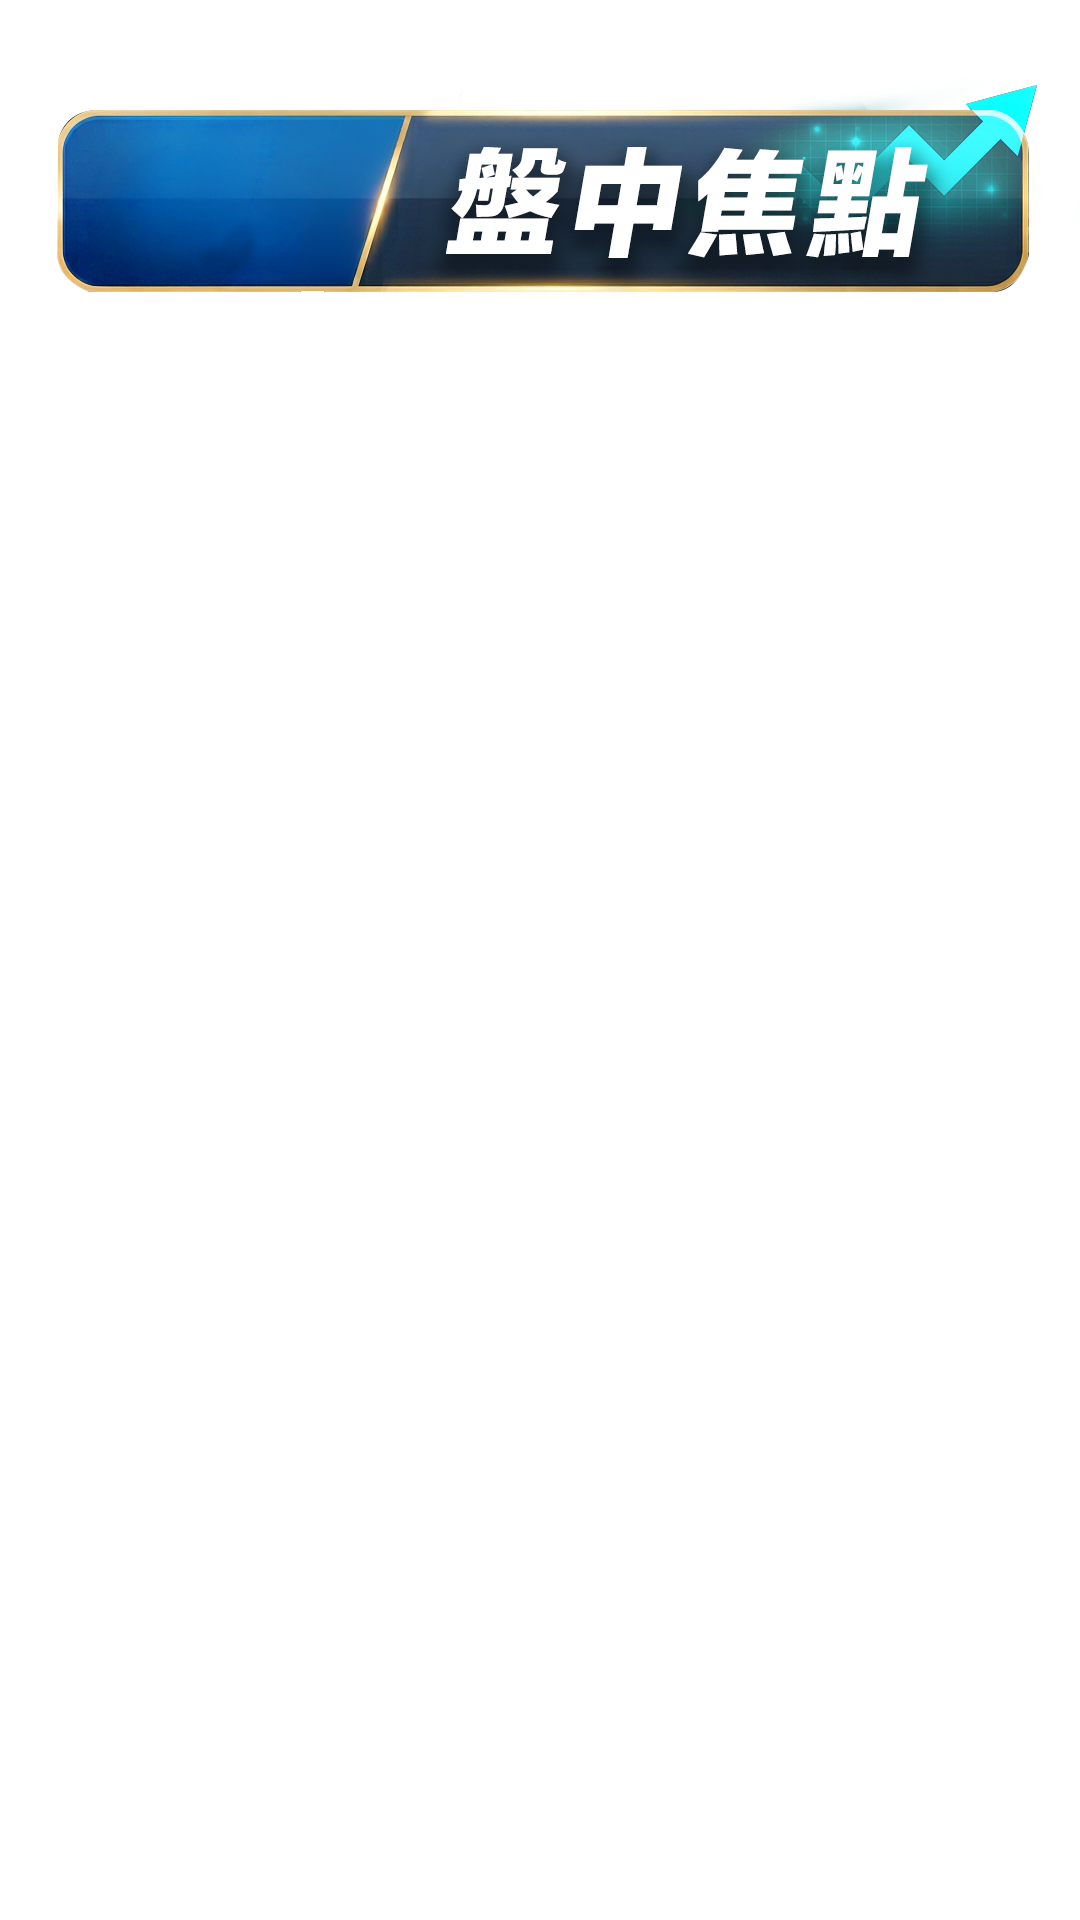
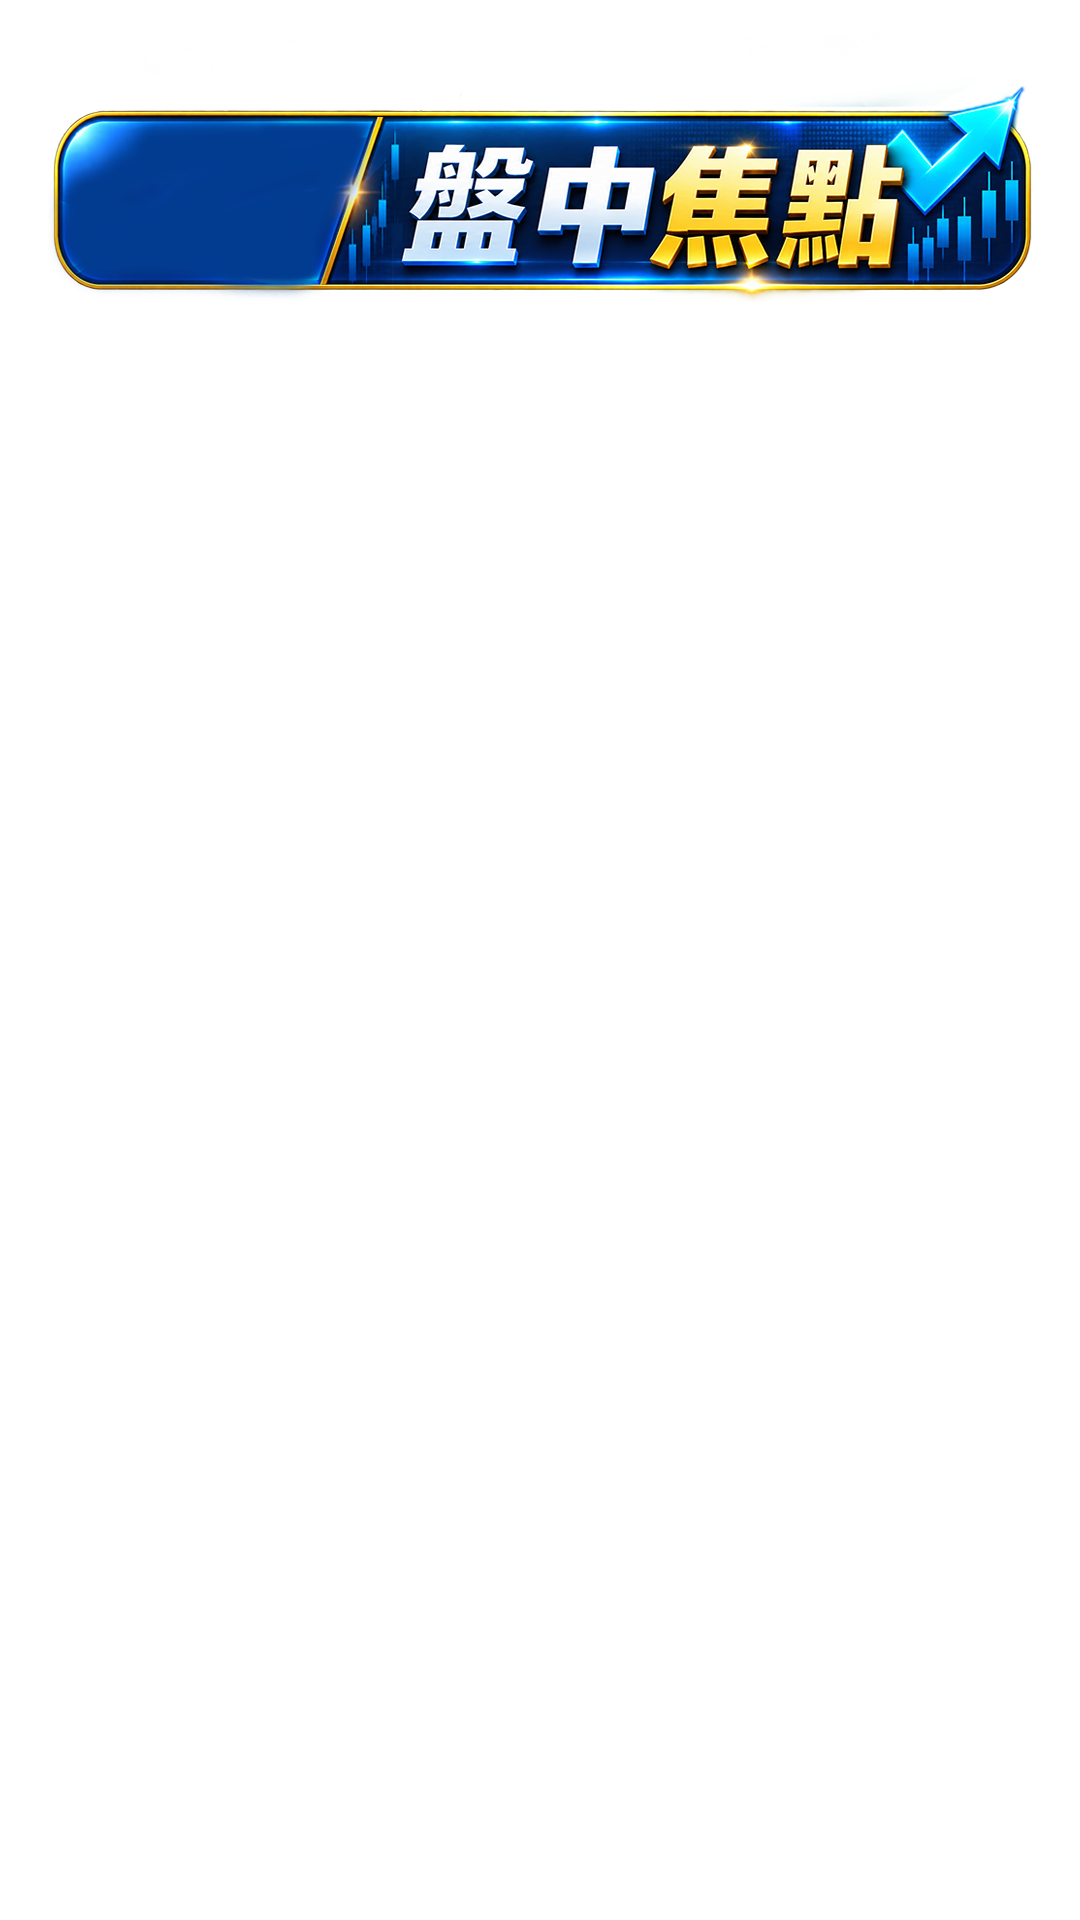
style: 盤中焦點換淺底開場圖，標題改深色配白描邊
使用者 2026-09-15 換掉 共用素材/盤中焦點/ 的 intro-frame.jpg 與 header-overlay.png
（開場底圖從深藍改成淺藍天空背景），並指定標題第一行 #282828、第二行 #023c91。
原本的白＋黃是深色底圖時代的配色，在新的淺底上會看不見。只有盤中焦點改 ——
大盤小報／三大法人／焦點股／美股焦點各有自己的 TITLE_COLORS，維持不動。

描邊與陰影一起定案（使用者看過黑描邊／無描邊／白描邊三版對照後選白描邊）：
  WebkitTextStroke 3px #000000 → #ffffff，深色字配黑描邊會把 #023c91 壓成近黑
  標題的 textShadow 0 4px 12px rgba(0,0,0,.5) 整行拿掉，改成白色光暈
  0 0 18px rgba(255,255,255,.9) —— 描邊是硬邊只有 3px，光暈負責把深色字從淺底浮起來。
日期牌自己那個 textShadow 保留（白字壓在深藍梯形上，跟標題不是同一個元件）。

換圖也讓日期牌跑位，一併修掉 —— 這不是使用者回報的，是換圖後重量才發現的：
  intro-frame.jpg 的招牌下移了（金框內緣由 y479-664 變成 y496-666），
  程式還用舊的 top 479，日期會偏高約 10px → 改成 488 回到置中。
  header-overlay.png 的招牌位置沒變，top 108 與 safeTop 310 維持原樣（實心底界一樣是 y291）。

日期左右位置由使用者拍板 left 55 → 35（中間試過 45 與 25）。
四位數字實測寬 246px（瀏覽器量 getBoundingClientRect，不是「字級 × 字數」估 —— 那會
多算 30px，我第一次就是這樣估錯才誤判餘裕）。left 35 在兩張圖上都有餘裕：
  開場 intro-frame（文字帶 y531-631）：左留 10-12px、右留 12-46px
  主段 header-overlay（文字帶 y150-250）：左留 8-12px、右留 14-48px
兩側都不能再挪超過 ±10px：往左到 25 左緣只剩 0-2px，往右回到 45 右緣會壓上斜切線。

座標與量法都寫進註解，之後再換美術不用重猜。npm run verify 通過。

Changed region(s): [[0.0306, 0.0312, 0.9778, 0.1562]]

diff --git a/90_系統/應用程式/src/MiddayFocus/MiddayFocusComposition.tsx b/90_系統/應用程式/src/MiddayFocus/MiddayFocusComposition.tsx
@@ -57,9 +57,11 @@ export const MiddayFocusComposition: React.FC = () => {
             style={{ width: '100%', height: '100%', objectFit: 'cover' }}
           />
         </AbsoluteFill>
-        {/* 日期牌梯形在 intro-frame.jpg 與 header-overlay.png 上的 y 座標不同（差 371px），
-            兩張圖各自傳 top 值，不要共用一組座標（大盤小報 2026-08-07 踩過這個坑） */}
-        <DateBadge top={479} />
+        {/* 日期牌梯形在 intro-frame.jpg 與 header-overlay.png 上的 y 座標不同（差 381px），
+            兩張圖各自傳 top 值，不要共用一組座標（大盤小報 2026-08-07 踩過這個坑）。
+            2026-09-15 換圖後重量：header 的招牌位置沒變（金框內緣 y115-285，維持 top 108），
+            intro 的招牌下移了（金框內緣 y496-666），所以這裡從 479 調成 488 才回到置中。 */}
+        <DateBadge top={488} />
         <TitleCard topOffset={70} />
       </Sequence>
 
@@ -135,8 +137,20 @@ export const MiddayFocusComposition: React.FC = () => {
   );
 };
 
-// 日期牌空白區座標：沿用大盤小報實測值（藍色梯形 x:60-379；header-overlay.png y:108-293、
-// intro-frame.jpg y:479-664）。素材換成盤中焦點自己的美術之後，如果梯形位置變了要回來重量一次。
+// 日期牌空白區座標：2026-09-15 換圖後對著 共用素材/盤中焦點/ 重量過
+//（header-overlay.png 金框內緣 y115-285、intro-frame.jpg 金框內緣 y496-666，兩張的招牌差 381px；
+//  藍色梯形左緣 x≈59 起，右緣因為斜切由上而下從 x363 收到 x329）。
+// left 2026-09-15 定案 35（使用者在 55 / 45 / 25 / 35 四版對照後選「左右等距」這版）。
+// 四位數字在字級 106／italic／letterSpacing -2 下實測寬 246px（用瀏覽器量 getBoundingClientRect，
+// 不要用「字級 × 字數」估，那會多算 30px）。容器 319 寬、文字置中，所以文字左緣 = left + 36.5。
+// left 35 → 文字 x71..317，兩張圖都離金線有餘裕：
+//   開場 intro-frame（文字帶 y531-631）：梯形 x59-61 起、斜切線由 x363 收到 x329
+//                                        → 左留 10-12px、右留 12-46px
+//   主段 header-overlay（文字帶 y150-250）：梯形 x59-63 起、斜切線由 x367 收到 x332
+//                                          → 左留 8-12px、右留 14-48px
+// ⚠ 兩側都不能再挪超過 ±10px：往左到 25 左緣只剩 0-2px，往右到 45 右緣會壓上斜切線。
+// 開場與主段共用同一個 left —— 兩張圖的梯形水平幾何一致（實測差 2px 內），所以一個值同時顧到。
+// 再換美術要回來重量一次（量法：ffmpeg 轉 rawvideo 掃金色外框與第一個白色字素的座標）。
 const DateBadge: React.FC<{ top: number }> = ({ top }) => {
   const headerDate = (videoMeta as any).headerDate ?? '';
   if (!headerDate) return null;
@@ -145,7 +159,7 @@ const DateBadge: React.FC<{ top: number }> = ({ top }) => {
       <div
         style={{
           position: 'absolute',
-          left: 55,
+          left: 35,
           top,
           width: 319,
           height: 185,
@@ -175,8 +189,13 @@ const DateBadge: React.FC<{ top: number }> = ({ top }) => {
 };
 
 // 標題卡：只在開場卡顯示，讀 video-meta.json.titleText
-//（parse-midday-script.js 從 script.txt 標題段寫入）。第一句白色、其餘黃色。
-const TITLE_COLORS = ['#ffffff', '#FFE600'];
+//（parse-midday-script.js 從 script.txt 標題段寫入）。第一句深灰、其餘深藍。
+// 2026-09-15 使用者換了開場底圖（改成淺藍天空背景）並指定這兩個色，取代原本的白＋黃
+//（白＋黃是深色底圖時代的配色，在新的淺底上會看不見）。
+// 同一次定案：描邊由黑改白、標題陰影整個拿掉 —— 深色字配黑描邊會把 #023c91 壓成近黑，
+// 白描邊則在淺底上給深色字一圈光暈。使用者看過三版對照（黑描邊／無描邊／白描邊）後選了白描邊。
+// ⚠ 只有盤中焦點改 —— 大盤小報／三大法人／焦點股／美股焦點各自有自己的 TITLE_COLORS，維持不動。
+const TITLE_COLORS = ['#282828', '#023c91'];
 
 const TitleCard: React.FC<{ topOffset?: number }> = ({ topOffset = 0 }) => {
   const title = (videoMeta as any).titleText ?? '';
@@ -212,9 +231,11 @@ const TitleCard: React.FC<{ topOffset?: number }> = ({ topOffset = 0 }) => {
               color: i === 0 ? TITLE_COLORS[0] : TITLE_COLORS[1],
               lineHeight: 1.4,
               textAlign: 'center',
-              WebkitTextStroke: '3px #000000',
+              WebkitTextStroke: '3px #ffffff',
               paintOrder: 'stroke fill',
-              textShadow: '0 4px 12px rgba(0,0,0,0.5)',
+              // 2026-09-15 使用者要求在白描邊之外再加一層白色模糊陰影：
+              // 描邊是硬邊、只有 3px，光暈負責把深色字從淺藍底圖上「浮」起來。
+              textShadow: '0 0 18px rgba(255,255,255,0.9)',
             }}
           >
             {line}
